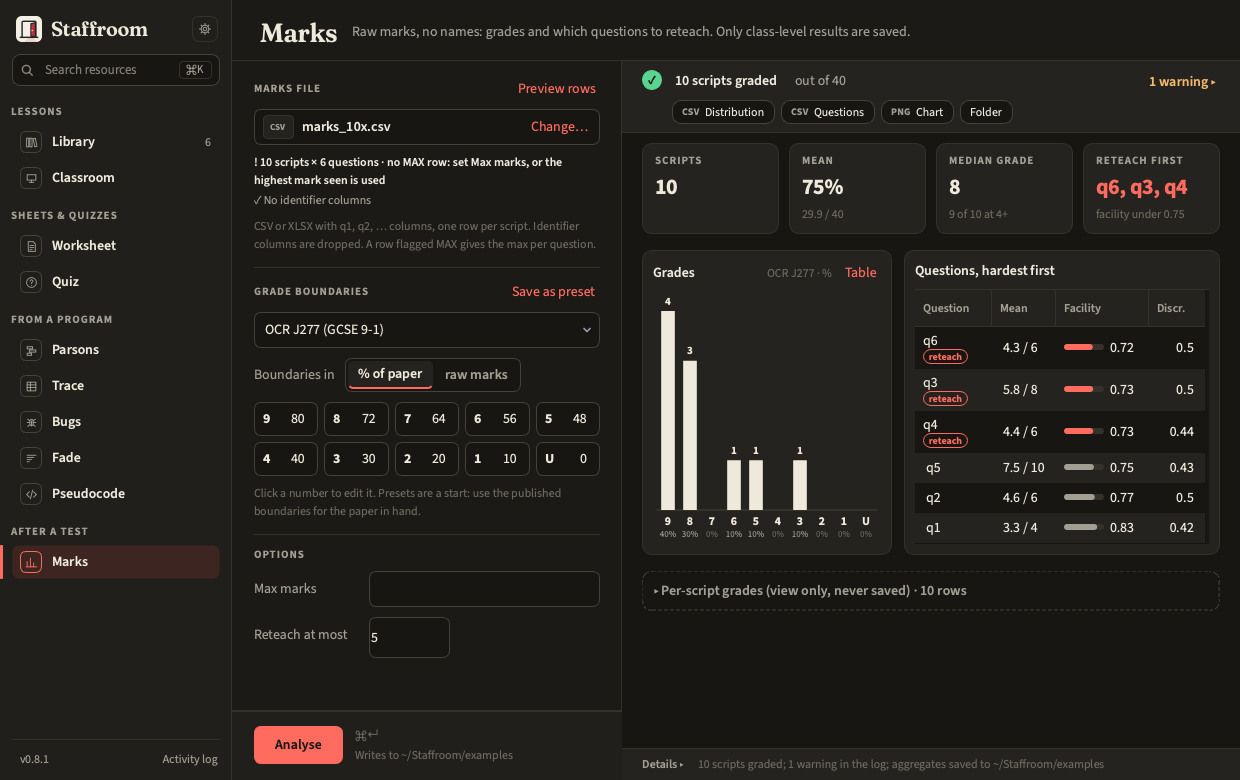
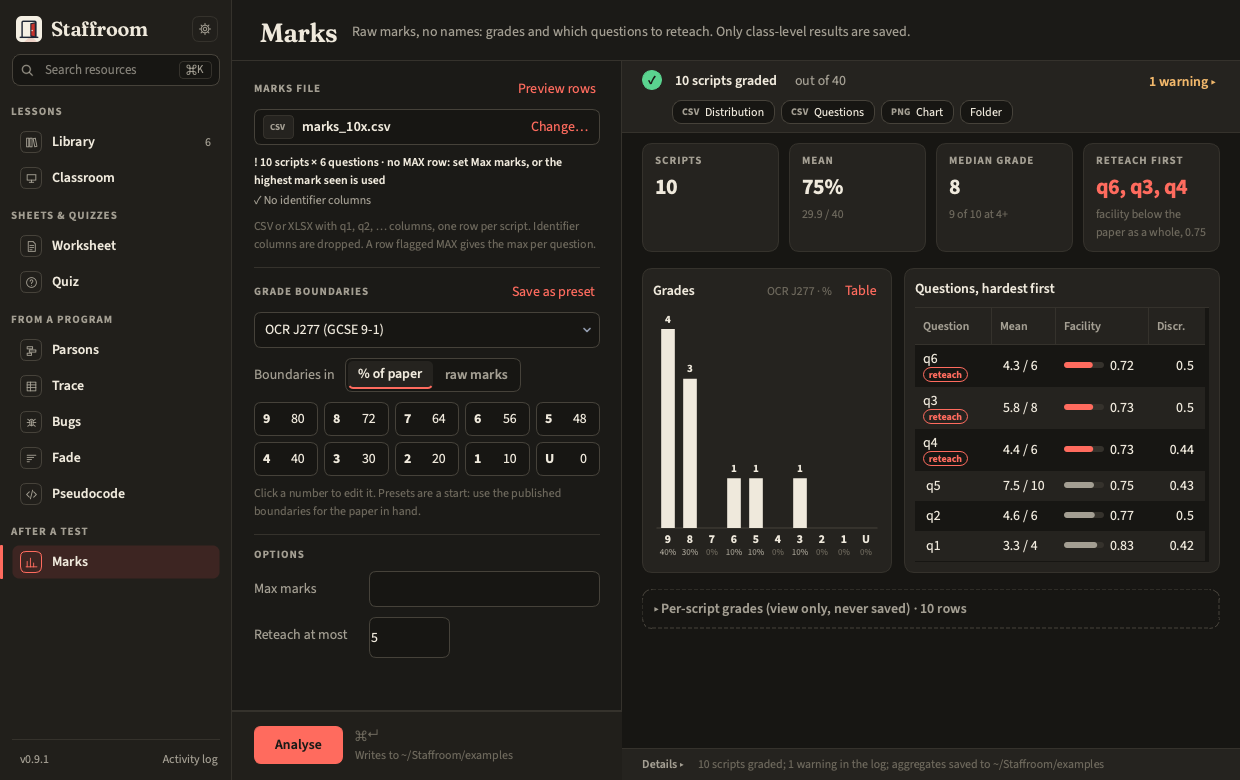
fix: help texts say what the tools do; small words for Marks, Parsons and paths (#49, #23)
Teachers read these strings to decide what to do, so each now matches the
code: Parsons' Split at (a header line is its own block), Fade's range
messages in the panel's words, the Settings Worksheets card (the board does
not touch Quiz tags), and the runner docstring (Fade runs nothing).
`staff marks run` followed OCR whatever Settings said; it now uses the
Settings board like the panel and prints the boundaries it used.

Marks' Reteach first says its line is the paper's own facility, Parsons
warns above 30 blocks, and a wrapped sentence keeps "~/Folder" whole.

The Library screenshots changed on every run (index time, checkout file
dates) and were refused from a worktree (the ~/ form of the fixture path was
not aliased); all three are fixed so two runs are byte-identical.

diff --git a/src/staffroom/tools/marks/tests/test_plugin.py b/src/staffroom/tools/marks/tests/test_plugin.py
@@ -87,6 +87,28 @@ def test_cli_run_and_presets(example_marks_max: Path, tmp_path: Path) -> None:
     )  # raw boundaries from a percent preset: everything scores high
 
 
+def test_cli_follows_the_exam_board_in_settings(example_marks_max: Path, tmp_path: Path) -> None:
+    """#49: the panel started on the Settings board's preset but ``staff marks
+    run`` always used OCR J277. Both follow Settings now; --preset still wins."""
+    r = runner.invoke(app, ["marks", "run", str(example_marks_max), "--out", str(tmp_path)])
+    assert r.exit_code == 0, r.output
+    assert "Boundaries:    OCR J277 · %" in r.output  # the default board
+    config = load_config()
+    config.general.board = "aqa"
+    config.save()
+    r = runner.invoke(app, ["marks", "run", str(example_marks_max), "--out", str(tmp_path)])
+    assert r.exit_code == 0, r.output
+    assert "Boundaries:    AQA 8525 · %" in r.output
+    r = runner.invoke(
+        app,
+        ["marks", "run", str(example_marks_max), "-p", "A-level (A*-E)", "--out", str(tmp_path)],
+    )
+    assert r.exit_code == 0, r.output
+    assert "Boundaries:    A-level · %" in r.output
+    r = runner.invoke(app, ["marks", "run", "--help"])
+    assert "exam board in Settings" in " ".join(r.output.replace("│", " ").split())
+
+
 def test_markbook_max_row_in_name_column_is_found(tmp_path: Path) -> None:
     # An .xlsx markbook export: MAX sits in the surname column, which the filter drops.
     src = write_table(
@@ -177,7 +199,7 @@ def test_report_tables_are_on_screen_only_and_the_csvs_keep_their_content(
         "Scripts": ("10", ""),
         "Mean": ("75%", "29.9 / 40"),
         "Median grade": ("8", "9 of 10 at 4+"),
-        "Reteach first": ("q6, q3, q4", "facility under 0.75"),
+        "Reteach first": ("q6, q3, q4", "facility below the paper as a whole, 0.75"),
     }
     assert result.tables["questions"].column("Question")[0] == "q6"  # hardest first
     assert "worst" not in result.tables
@@ -211,6 +233,6 @@ def test_unit_input_overrides_the_options_default(example_marks_max: Path, tmp_p
 def test_cli_prints_the_headline(example_marks_max: Path, tmp_path: Path) -> None:
     r = runner.invoke(app, ["marks", "run", str(example_marks_max), "--out", str(tmp_path)])
     assert r.exit_code == 0, r.output
-    assert "Reteach first: q6, q3, q4  (facility under 0.75)" in r.output
+    assert "Reteach first: q6, q3, q4  (facility below the paper as a whole, 0.75)" in r.output
     assert "Median grade:  8  (9 of 10 at 4+)" in r.output
     assert "Questions, hardest first" in r.output and "Worst questions" not in r.output

diff --git a/src/staffroom/tools/fade/tests/test_fade.py b/src/staffroom/tools/fade/tests/test_fade.py
@@ -82,6 +82,11 @@ def test_plugin_and_cli(tmp_path: Path) -> None:
     assert (tmp_path / "sol_faded_key.docx").exists()
     r = runner.invoke(app, ["fade", "make", str(src), "--order", "sideways"])
     assert r.exit_code == 1
+    # On the command line the slip is named in flags, not the panel's words.
+    r = runner.invoke(app, ["fade", "make", str(src), "--ranges", "3-5", "--out", str(tmp_path)])
+    assert r.exit_code == 1 and "--ranges needs --order ranges" in r.output
+    r = runner.invoke(app, ["fade", "make", str(src), "--order", "ranges", "--out", str(tmp_path)])
+    assert r.exit_code == 1 and "--order ranges needs --ranges" in r.output
 
 
 def test_versions_are_capped_at_the_fadeable_line_count(tmp_path: Path) -> None:
@@ -133,8 +138,17 @@ def test_range_errors_say_what_was_expected_and_what_is_wrong() -> None:
     assert "line 1 is a def/if/for/while header" in message and "Keep headers" in message
     assert "line 6 is blank" in message and "line 7 is a comment" in message
     # Listing ranges without choosing the ranges order is almost certainly a slip.
-    with pytest.raises(ValueError, match="Fade order is 'bottom_up'"):
+    # The message names the panel's choices, not the raw values (#49).
+    with pytest.raises(ValueError) as excinfo:
         logic.fade_versions(PROGRAM, Options(order="bottom_up", ranges="3-5"))
+    assert str(excinfo.value) == (
+        "Line ranges are listed but Fade order is “Last lines first”. "
+        "Choose “Only the lines I list” to fade only those lines, or clear Line ranges."
+    )
+    with pytest.raises(ValueError) as excinfo:
+        logic.fade_versions(PROGRAM, Options(order="ranges", ranges=" "))
+    assert str(excinfo.value).startswith("Fade order is “Only the lines I list” but no lines")
+    assert "'" not in str(excinfo.value)
     # Lines that cannot fade are reported but do not stop the others fading.
     assert logic.unfadeable_lines(PROGRAM, Options(order="ranges", ranges="1-2, 8")) == [
         (1, "line 1 is a def/if/for/while header (Keep headers is on)")

diff --git a/tests/shell/test_first_run.py b/tests/shell/test_first_run.py
@@ -8,6 +8,8 @@ from __future__ import annotations
 from pathlib import Path
 
 import pytest
+from PySide6.QtGui import QTextLayout
+from PySide6.QtWidgets import QLabel
 from pytestqt.qtbot import QtBot
 
 from staffroom.core import paths
@@ -142,3 +144,32 @@ def test_first_run_flag_forces_the_card_for_screenshots(qtbot: QtBot, tmp_path: 
     assert win.first_run is not None
     assert win.stack.currentWidget() is win.first_run
     assert load_config().general.resources_root == str(tmp_path / "resources")  # untouched
+
+
+def _lines_at(label: QLabel, width: int) -> list[str]:
+    """How Qt lays out the label's own text (what it paints) at ``width``."""
+    text = QLabel.text(label)  # the C++ text, word joiners and all
+    layout = QTextLayout(text, label.font())
+    layout.beginLayout()
+    lines = []
+    while (line := layout.createLine()).isValid():
+        line.setLineWidth(width)
+        lines.append(text[line.textStart() : line.textStart() + line.textLength()])
+    layout.endLayout()
+    return lines
+
+
+def test_the_sessions_path_never_breaks_after_the_home_slash(fresh_window: MainWindow) -> None:
+    """#23: the card wrapped "~/ TeachingSessions" after the slash."""
+    card = fresh_window.first_run
+    assert card is not None
+    note = card.sessions_note
+    assert paths.DEFAULT_SESSIONS_ROOT in note.text()  # plain words for readers and tests
+    assert "" not in note.text()
+    for width in range(160, 420, 2):
+        lines = _lines_at(note, width)
+        assert not any(line.rstrip().rstrip("").endswith("~/") for line in lines), lines
+    # Screenshot mode rewrites the text; the rewritten path stays whole too.
+    note.setText("Copies go to ~/TeachingSessions/outputs today.")
+    assert note.text() == "Copies go to ~/TeachingSessions/outputs today."
+    assert "~/TeachingSessions" in QLabel.text(note)

diff --git a/src/staffroom/tools/marks/cli.py b/src/staffroom/tools/marks/cli.py
@@ -19,9 +19,15 @@ def register(app: typer.Typer) -> None:
     @app.command()
     def run(
         source: SourceArg,
-        preset: Annotated[str, typer.Option("--preset", "-p", help="Boundary preset name")] = (
-            presets.DEFAULT_PRESET
-        ),
+        preset: Annotated[
+            str | None,
+            typer.Option(
+                "--preset",
+                "-p",
+                help="Boundary preset name (default: the preset for the exam board in "
+                "Settings, OCR J277 unless changed)",
+            ),
+        ] = None,
         unit: Annotated[str, typer.Option("--unit", help="percent or raw")] = "percent",
         max_marks: Annotated[str, typer.Option("--max", help="e.g. 4,6,8 or 10")] = "",
         worst: Annotated[
@@ -37,6 +43,8 @@ def register(app: typer.Typer) -> None:
 
         config = load_config()
         available = presets.all_presets(config)
+        if preset is None:  # the Settings exam board, as the panel uses (#49)
+            preset = presets.default_preset_for(config.general.board)
         if preset not in available:
             typer.secho(f"unknown preset {preset!r}; see  staff marks presets", fg="red", err=True)
             raise typer.Exit(1)
@@ -60,6 +68,7 @@ def register(app: typer.Typer) -> None:
             typer.secho(str(exc), fg=typer.colors.RED, err=True)
             raise typer.Exit(1) from None
         _print_headline(result.tables["headline"])
+        typer.echo(f"{'Boundaries:':<15}{result.texts['distribution']}")  # the chart's caption
         _print_table("Grade distribution", result.tables["distribution"])
         _print_table("Questions, hardest first", result.tables["questions"])
         typer.echo(result.summary)

diff --git a/src/staffroom/tools/parsons/tests/test_plugin.py b/src/staffroom/tools/parsons/tests/test_plugin.py
@@ -91,3 +91,31 @@ def test_sheet_without_indentation_still_boxes_every_block() -> None:
     preview = to_text(build_document(problem, "year9", options))
     assert "Indentation has been removed" in preview
     assert '| print("Well done")' in preview  # dedented inside its box
+
+
+def _program(statements: int) -> str:
+    """An invented program of ``statements`` one-line statements."""
+    return "".join(f"total = {i}\n" for i in range(statements))
+
+
+def test_a_long_program_is_warned_about_in_the_strip_and_the_cli(tmp_path: Path) -> None:
+    """#23: a 1,501-line file made a 1,501-block problem without a word."""
+    from staffroom.tools.parsons.logic import LONG_PROBLEM_BLOCKS
+
+    warned: list[str] = []
+    ctx = RunContext(config=load_config(), output_dir=tmp_path, warned=warned.append)
+    options = Options(distractors=0, formats="pdf")
+    plugin.run({"pasted": _program(LONG_PROBLEM_BLOCKS), "options": options}, ctx)
+    assert warned == []  # 30 blocks: no warning
+    plugin.run({"pasted": _program(LONG_PROBLEM_BLOCKS + 1), "options": options}, ctx)
+    assert len(warned) == 1
+    assert warned[0].startswith(f"{LONG_PROBLEM_BLOCKS + 1} blocks is a lot")
+    assert f"about {LONG_PROBLEM_BLOCKS} or fewer" in warned[0]
+
+    src = tmp_path / "long.py"
+    src.write_text(_program(40))
+    r = runner.invoke(
+        app, ["parsons", "make", str(src), "-f", "pdf", "--no-preview", "--out", str(tmp_path)]
+    )
+    assert r.exit_code == 0, r.output
+    assert "Warning: 40 blocks is a lot to put in order" in r.output

diff --git a/src/staffroom/tools/parsons/logic.py b/src/staffroom/tools/parsons/logic.py
@@ -22,7 +22,9 @@ class Options:
         default="statement",
         metadata={
             "label": "Split at",
-            "help": "Statements: a compound header with its body; Lines: every line",
+            "help": "Statements: one block per statement, so a statement written over "
+            "several lines stays in one piece, and a line ending in a colon (if, for, def…) "
+            "is a block of its own. Lines: one block per line.",
         },
     )
     show_indentation: bool = field(
@@ -538,6 +540,24 @@ def variable_swaps(source: str) -> dict[int, list[Swap]]:
 
 
 # ---------------------------------------------------------------- the problem
+# Past this many blocks a Parsons problem stops being a puzzle and becomes a
+# sorting chore (#23: a 1,501-line file made a 1,501-block problem in silence).
+LONG_PROBLEM_BLOCKS = 30
+
+
+def length_warning(problem: Problem) -> str:
+    """A sentence for the teacher when the problem has more than
+    ``LONG_PROBLEM_BLOCKS`` blocks to order (distractors not counted); empty
+    otherwise."""
+    n = len(problem.solution)
+    if n <= LONG_PROBLEM_BLOCKS:
+        return ""
+    return (
+        f"{n} blocks is a lot to put in order: Parsons problems work best with about "
+        f"{LONG_PROBLEM_BLOCKS} or fewer. Try a shorter program, or one part of this one."
+    )
+
+
 def make_problem(source: str, options: Options | None = None) -> Problem:
     options = options or Options()
     solution = split(source, options.granularity)

diff --git a/src/staffroom/tools/fade/logic.py b/src/staffroom/tools/fade/logic.py
@@ -33,6 +33,12 @@ class Options:
 
 
 RANGES_HINT = "Line ranges like 3-5, 8"
+# What the panel calls each Fade order; the messages below use the same words.
+ORDER_LABELS = {
+    "bottom_up": "Last lines first",
+    "top_down": "First lines first",
+    "ranges": "Only the lines I list",
+}
 
 
 def parse_ranges(text: str) -> list[int]:
@@ -133,13 +139,14 @@ def _check_ranges(source: str, options: Options) -> None:
     if options.order != "ranges":
         if options.ranges.strip():
             msg = (
-                f"Line ranges are listed but Fade order is '{options.order}'. "
-                "Choose 'ranges' to fade only those lines, or clear the ranges."
+                f"Line ranges are listed but Fade order is “{ORDER_LABELS[options.order]}”. "
+                f"Choose “{ORDER_LABELS['ranges']}” to fade only those lines, "
+                "or clear Line ranges."
             )
             raise ValueError(msg)
         return
     if not options.ranges.strip():
-        msg = f"Fade order is 'ranges' but no lines are listed. {RANGES_HINT}."
+        msg = f"Fade order is “{ORDER_LABELS['ranges']}” but no lines are listed. {RANGES_HINT}."
         raise ValueError(msg)
     wanted = parse_ranges(options.ranges)
     total = len(source.splitlines())

diff --git a/src/staffroom/shell/widgets/card.py b/src/staffroom/shell/widgets/card.py
@@ -4,9 +4,30 @@ from __future__ import annotations
 
 from PySide6.QtWidgets import QFrame, QHBoxLayout, QLabel, QVBoxLayout, QWidget
 
+WORD_JOINER = "\u2060"  # invisible; forbids a line break where it stands
+
+
+class SentenceLabel(QLabel):
+    """A wrapping sentence that may name a folder under home: Qt breaks a line
+    after a slash, so "~/TeachingSessions" could end one line with "~/" and
+    start the next with "TeachingSessions" (#23). A word joiner after each
+    ``~/`` keeps the path whole. :meth:`text` gives the sentence back without
+    it, so whatever reads or rewrites the text (tests, screenshot mode) sees
+    plain words."""
+
+    def __init__(self, text: str = "", parent: QWidget | None = None) -> None:
+        super().__init__(parent)
+        self.setText(text)
+
+    def setText(self, text: str) -> None:  # noqa: N802 (Qt's name)
+        super().setText(text.replace(WORD_JOINER, "").replace("~/", "~/" + WORD_JOINER))
+
+    def text(self) -> str:
+        return super().text().replace(WORD_JOINER, "")
+
 
 def make_label(text: str, role: str = "", *, wrap: bool = False) -> QLabel:
-    label = QLabel(text)
+    label = SentenceLabel(text) if wrap else QLabel(text)
     if role:
         label.setProperty("role", role)
     label.setWordWrap(wrap)

diff --git a/tests/shell/test_library_page.py b/tests/shell/test_library_page.py
@@ -261,3 +261,24 @@ def test_sidebar_footer_and_header_show_one_count(window: MainWindow) -> None:
     assert panel.status.text() == line == f"{counts.indexed} files (incl. {counts.hidden} hidden)"
     assert page.index_status.text().startswith(line + "  ·  last index ")
     assert len(library.resources(include_hidden=True)) == counts.indexed
+
+
+def test_a_screenshot_shows_the_pinned_day_not_the_index_time(
+    qtbot: QtBot, service: LibraryService, resources_root: Path
+) -> None:
+    """#49: the Library screenshots showed the clock time of the last index,
+    so every ``just screenshots`` changed them. A pinned screenshot day
+    replaces the time; a teacher's launcher (no pinned day) shows it."""
+    from datetime import date
+
+    config = load_config()
+    config.general.resources_root = str(resources_root)
+    assert config.screenshot_day is None
+    win = MainWindow(config, library=service, auto_index=False)
+    qtbot.addWidget(win)
+    assert service.last_indexed() is not None
+    assert ":" in win.library_page.index_status.text().rpartition("last index ")[2]
+
+    config.screenshot_day = date(2026, 10, 9)
+    win.library_page.refresh_status()
+    assert win.library_page.index_status.text().endswith("  ·  last index 09 Oct 2026")

diff --git a/src/staffroom/tools/parsons/tests/test_logic.py b/src/staffroom/tools/parsons/tests/test_logic.py
@@ -65,6 +65,24 @@ def test_many_seeds_shuffle_but_never_lose_blocks(seed: int) -> None:
     assert [b.text for b in again.shuffled] == [b.text for b in problem.shuffled]
 
 
+def test_split_at_help_says_what_each_choice_does() -> None:
+    """#49: the help said a compound header came with its body; it does not.
+    What the help promises is what the splitter does."""
+    from dataclasses import fields
+
+    help_text = next(f for f in fields(logic.Options) if f.name == "granularity").metadata["help"]
+    assert "with its body" not in help_text
+    assert "a line ending in a colon (if, for, def…) is a block of its own" in help_text
+    assert "a statement written over several lines stays in one piece" in help_text
+    source = "marks = [\n    4,\n    7,\n]\nfor m in marks:\n    print(m)\n"
+    assert [b.text for b in logic.split_statements(source)] == [
+        "marks = [\n    4,\n    7,\n]",
+        "for m in marks:",
+        "print(m)",
+    ]
+    assert len(logic.split_lines(source)) == 6  # Lines: one block per line
+
+
 def test_statement_blocks_keep_headers_and_bodies_apart() -> None:
     blocks = logic.split_statements(PROGRAMS["if_elif_else"])
     assert [b.text for b in blocks] == [

diff --git a/tests/shell/test_screenshot_paths.py b/tests/shell/test_screenshot_paths.py
@@ -125,3 +125,16 @@ def test_neutral_replaces_the_longest_prefix_first() -> None:
     assert screenshot_paths.neutral("/a/b/c/Year 9/x.py and /a/b/y", table) == (
         "~/Documents/Teaching resources/Year 9/x.py and ~/y"
     )
+
+
+def test_a_home_relative_folder_is_neutral_too() -> None:
+    """#49: the Library header shows its folder as ``~/…``. Rendered from a
+    checkout under home (a worktree), that form was not aliased, so the
+    Library screenshots were refused. Nothing here touches the folder."""
+    config = load_config()
+    resources = Path.home() / "Teaching-Tools-worktrees" / "fix" / "x" / "resources"
+    config.general.resources_root = str(resources)
+    table = screenshot_paths.aliases(config)
+    shown = screenshot_paths.neutral("~/Teaching-Tools-worktrees/fix/x/resources", table)
+    assert shown == "~/Documents/Teaching resources"
+    assert screenshot_paths.neutral(str(resources), table) == "~/Documents/Teaching resources"

diff --git a/src/staffroom/shell/screenshot_paths.py b/src/staffroom/shell/screenshot_paths.py
@@ -60,7 +60,20 @@ def aliases(config: Config, default_output: Path | None = None) -> Aliases:
         for variant in {str(path), str(path.resolve())}:  # /var is /private/var on macOS
             if variant not in ("/", "."):
                 pairs.append((variant, shown))
+                # The Library's header shows its folder home-relative
+                # (``~/…``, ``short_path``): that form needs the alias too (#49).
+                home_relative = _home_relative(variant)
+                if home_relative and shown != "~":
+                    pairs.append((home_relative, shown))
     return sorted(set(pairs), key=lambda pair: len(pair[0]), reverse=True)
+
+
+def _home_relative(path: str) -> str:
+    """``~/rest`` for a path under home, else empty."""
+    try:
+        return "~/" + Path(path).relative_to(Path.home()).as_posix()
+    except ValueError:
+        return ""
 
 
 def neutral(text: str, table: Aliases) -> str:
